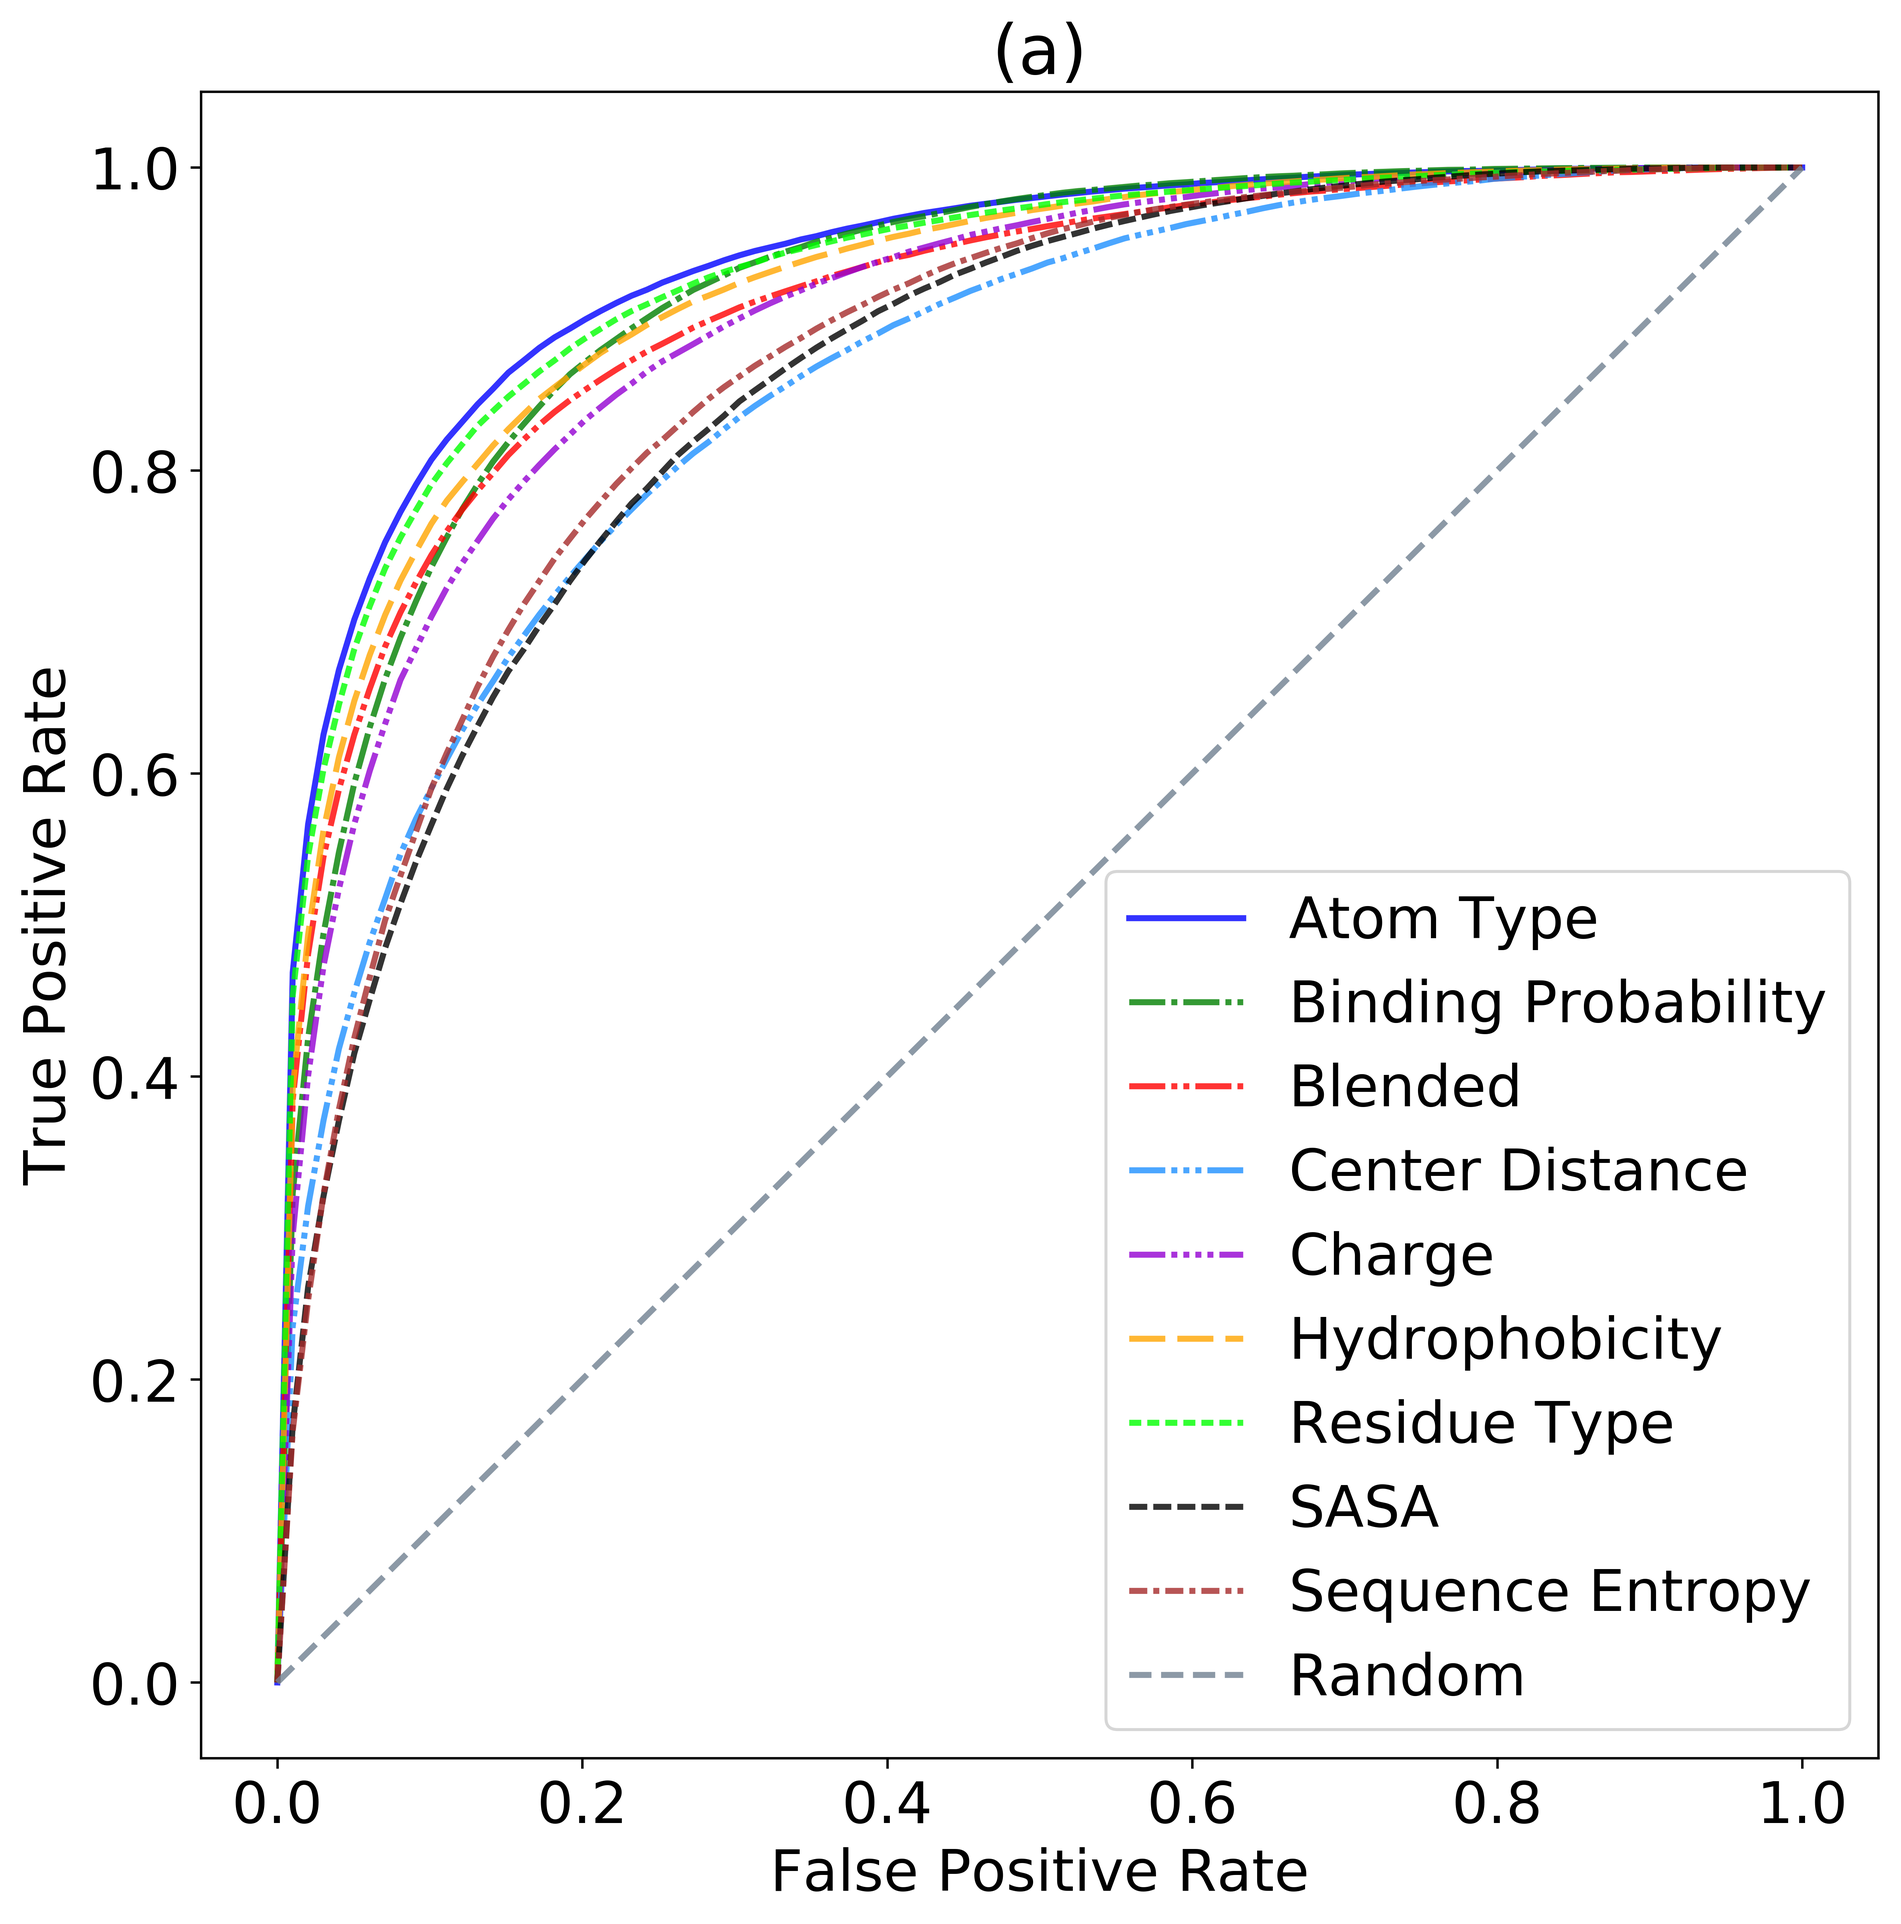
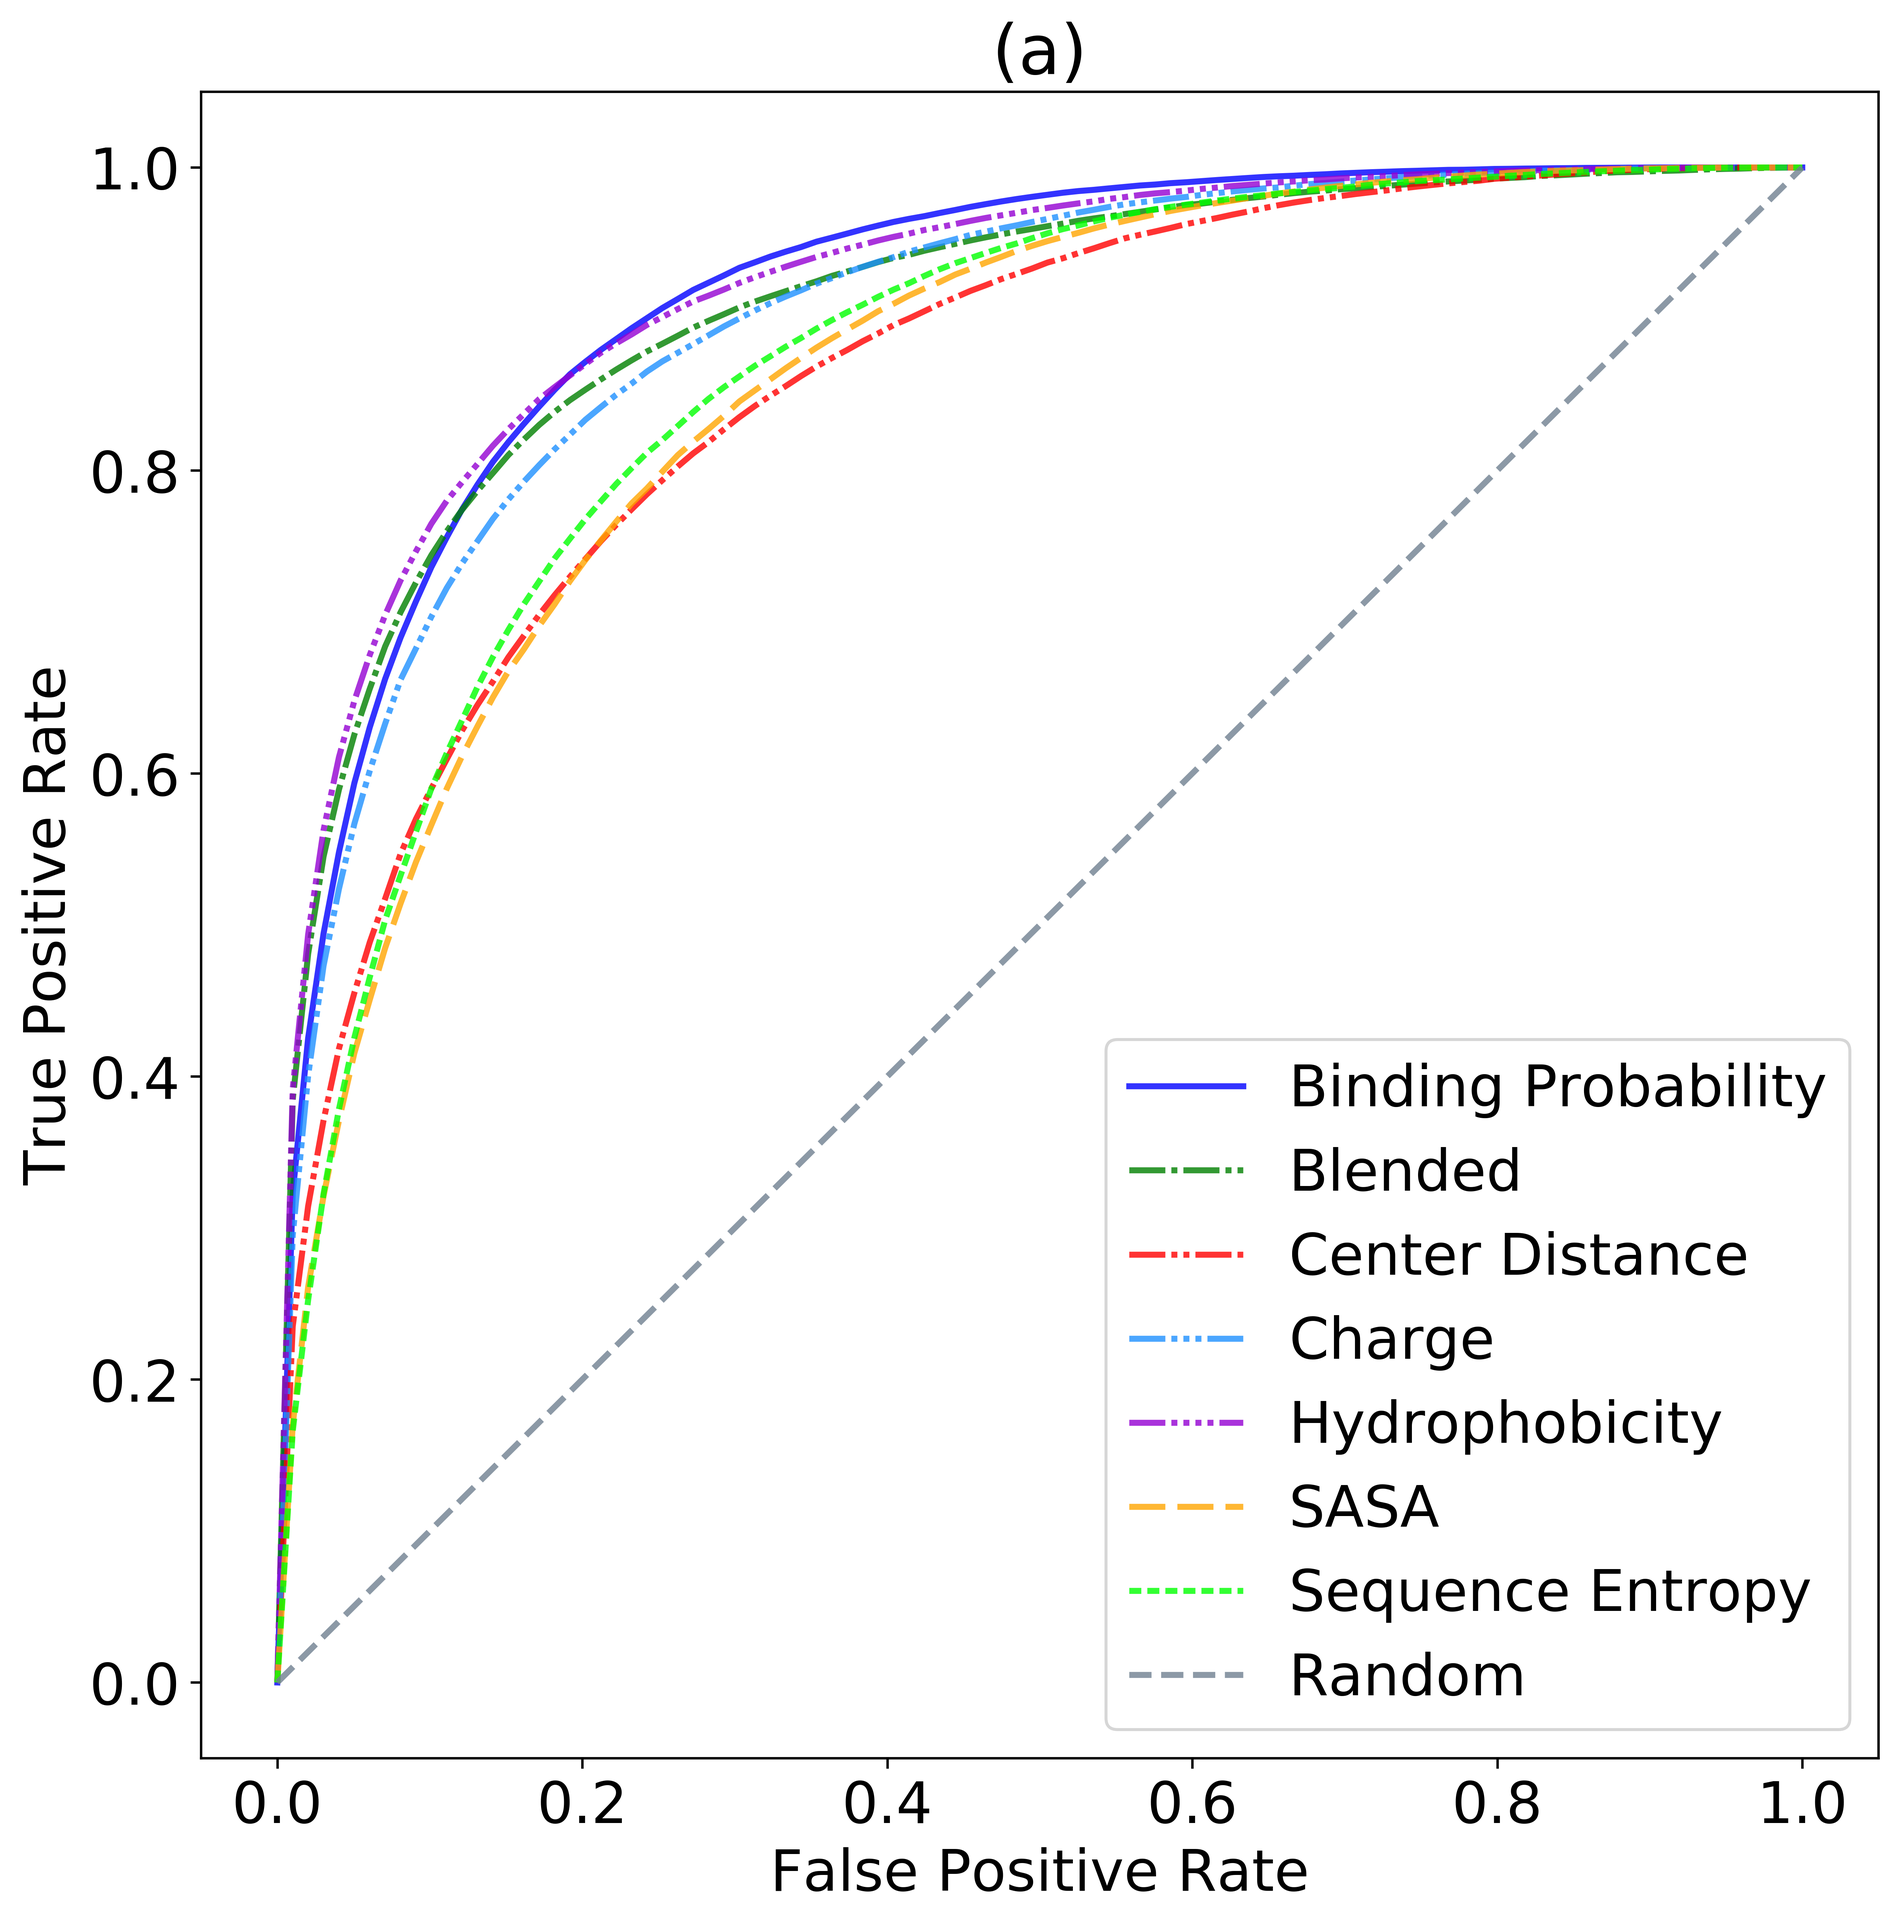
updated the roc plot for 6 properties

diff --git a/bionoi_roc/6_properties_roc.py b/bionoi_roc/6_properties_roc.py
@@ -88,6 +88,7 @@ if __name__ == "__main__":
         sasa_dir = '../bionoi_cnn_homology_reduced/results/control_vs_nucleotide_cv_sasa.json'
         seq_entropy_dir = '../bionoi_cnn_homology_reduced/results/control_vs_nucleotide_cv_seq_entropy.json' 
 
+    """
     dirs = [atom_type_dir, binding_prob_dir, blended_dir, center_dist_dir, charge_dir, hydrophobicity_dir,residue_type_dir,sasa_dir,seq_entropy_dir]
     model_names = ['Atom Type', 'Binding Probability', 'Blended', 'Center Distance', 'Charge', 'Hydrophobicity', 'Residue Type', 'SASA', 'Sequence Entropy']
     colors = ['b', 'g', 'r', 'dodgerblue', 'darkviolet', 'orange', 'lime', 'black', 'brown']
@@ -100,6 +101,18 @@ if __name__ == "__main__":
                    [2,1],
                    [3,1],
                    [3,1,1,1]]
+    """
+    dirs = [binding_prob_dir, blended_dir, center_dist_dir, charge_dir, hydrophobicity_dir,sasa_dir,seq_entropy_dir]
+    model_names = ['Binding Probability', 'Blended', 'Center Distance', 'Charge', 'Hydrophobicity', 'SASA', 'Sequence Entropy']
+    colors = ['b', 'g', 'r', 'dodgerblue', 'darkviolet', 'orange', 'lime']
+    dashes_list = ['', 
+                   [6, 1, 1, 1], 
+                   [6, 1, 1, 1, 1, 1], 
+                   [6, 1, 1, 1, 1, 1, 1, 1], 
+                   [6, 1, 1, 1, 1, 1, 1, 1, 1, 1],
+                   [6, 2],
+                   [2,1]]
+    
     fig=plt.figure(figsize=(10, 10))
     plt.tight_layout()
     
